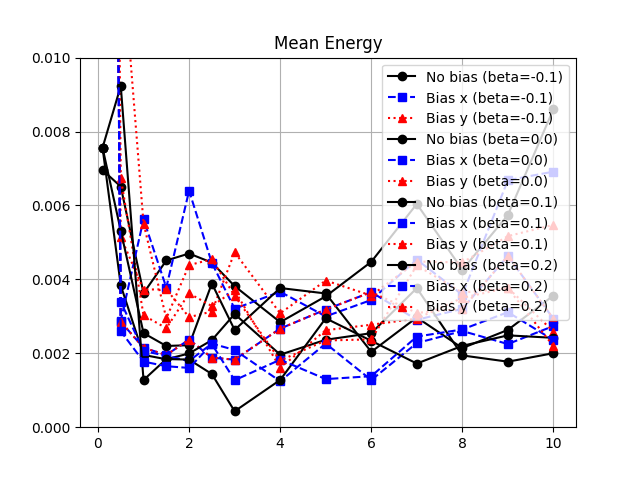
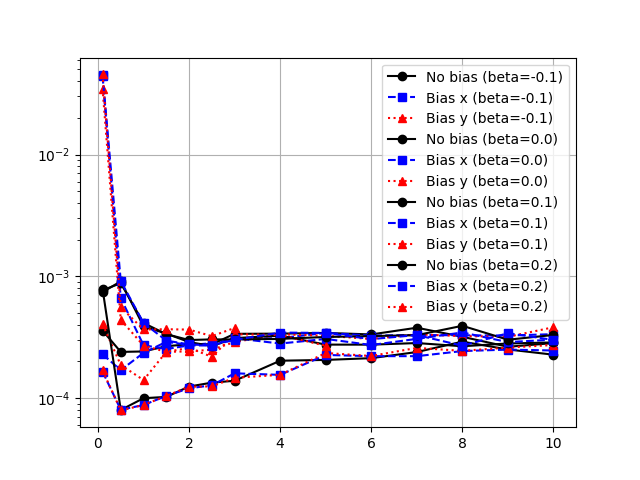
modified:   scripts/plot/plot_core.py 	modified:   scripts/plot/plot_energy.py 	new file:   scripts/plot/plot_energy_loss.py

diff --git a/scripts/plot/plot_core.py b/scripts/plot/plot_core.py
@@ -10,66 +10,159 @@ def compute_stats(vals):
         sum(vals) / len(vals)
     )
 
-def plot_energy(energy_nb, energy_wb, target_betas, aggregation, save_path):
+def plot_energy(
+    energy_nb,
+    energy_wb,
+    target_betas,
+    aggregation,
+    save_path,
+    loss_nb=None,
+    loss_wb=None,
+    mode="method",   # ★追加
+    model="no_bias",
+):
     plt.figure()
 
-    DATASETS = [
-        ("No bias", energy_nb, "no_reg",
-         dict(color="black", marker="o", linestyle="-")),
+    # =========================
+    # DATASETS定義
+    # =========================
+    if mode == "method":
+        DATASETS = [
+            ("No bias", energy_nb, loss_nb, "no_reg",
+             dict(color="black", marker="o")),
 
-        ("Bias x", energy_wb, "x",
-         dict(color="blue", marker="s", linestyle="--")),
+            ("Bias x", energy_wb, loss_wb, "x",
+             dict(color="blue", marker="s")),
 
-        ("Bias y", energy_wb, "y",
-         dict(color="red", marker="^", linestyle=":")),
-    ]
+            ("Bias y", energy_wb, loss_wb, "y",
+             dict(color="red", marker="^")),
+        ]
 
-    for beta in target_betas:
+    elif mode == "beta":
+        beta_color_map = {
+            -0.1: "C2",
+            0.0: "C0",
+            0.1: "C1",
+            0.2: "C3",
+        }
 
-        for label_prefix, data_dict, reg_type, style in DATASETS:
+        if model == "no_bias":
+            e_dict = energy_nb
+            l_dict = loss_nb
+            reg_type = "no_reg"
 
-            if beta not in data_dict:
+        elif model == "bias_x":
+            e_dict = energy_wb
+            l_dict = loss_wb
+            reg_type = "x"
+
+        elif model == "bias_y":
+            e_dict = energy_wb
+            l_dict = loss_wb
+            reg_type = "y"
+
+        else:
+            raise ValueError(f"Unknown model: {model}")
+        
+        # no_biasのみ使う（必要なら拡張可能）
+        DATASETS = []
+        for beta in target_betas:
+            DATASETS.append((
+                f"{model}, beta={beta}",
+                e_dict,
+                l_dict,
+                reg_type,
+                dict(color=beta_color_map[beta], marker="o"),
+                beta
+            ))
+
+    else:
+        raise ValueError(f"Unknown mode: {mode}")
+
+    # =========================
+    # ループ
+    # =========================
+    for item in DATASETS:
+
+        # modeで構造が違うので分岐
+        if mode == "method":
+            label_prefix, e_dict, l_dict, reg_type, style = item
+            beta_loop = target_betas
+
+        else:  # beta mode
+            label_prefix, e_dict, l_dict, reg_type, style, fixed_beta = item
+            beta_loop = [fixed_beta]
+
+        for beta in beta_loop:
+
+            if beta not in e_dict:
                 continue
 
-            xs, mean_vals, min_vals, max_vals = [], [], [], []
+            xs = []
+            mean_e, min_e, max_e = [], [], []
+            mean_l = []
 
-            for a in sorted(data_dict[beta].keys()):
-                if reg_type not in data_dict[beta][a]:
+            for a in sorted(e_dict[beta].keys()):
+                if reg_type not in e_dict[beta][a]:
                     continue
 
-                vals = data_dict[beta][a][reg_type]
+                e_vals = e_dict[beta][a][reg_type]
+                mn, mx, avg = compute_stats(e_vals)
 
                 xs.append(a)
-                mean_vals.append(sum(vals)/len(vals))
-                min_vals.append(min(vals))
-                max_vals.append(max(vals))
+                mean_e.append(avg)
+                min_e.append(mn)
+                max_e.append(mx)
+
+                if l_dict is not None:
+                    l_vals = l_dict[beta][a][reg_type]
+                    mean_l.append(sum(l_vals)/len(l_vals))
 
             if not xs:
                 continue
 
-            # --- band ---
+            color = style["color"]
+
+            # =====================
+            # energy
+            # =====================
             if aggregation == "band":
-                plt.fill_between(xs, min_vals, max_vals,
-                                 color=style["color"], alpha=0.15)
+                plt.fill_between(xs, min_e, max_e,
+                                 color=color, alpha=0.15)
 
-                plt.plot(xs, mean_vals,
-                         label=f"{label_prefix} (beta={beta})",
-                         **style)
+                plt.plot(xs, mean_e,
+                         linestyle="-",
+                         marker=style["marker"],
+                         color=color,
+                         label=f"{model}, beta={beta} energy")
 
-            # --- mean/min ---
             else:
                 ys = []
-                for a in sorted(data_dict[beta].keys()):
-                    if reg_type not in data_dict[beta][a]:
+                for a in sorted(e_dict[beta].keys()):
+                    if reg_type not in e_dict[beta][a]:
                         continue
-                    vals = data_dict[beta][a][reg_type]
+                    vals = e_dict[beta][a][reg_type]
                     ys.append(aggregate(vals, aggregation))
 
                 plt.plot(xs, ys,
-                         label=f"{label_prefix} (beta={beta})",
-                         **style)
+                         linestyle="-",
+                         marker=style["marker"],
+                         color=color,
+                         label=f"{model}, beta={beta} energy")
+
+            # =====================
+            # loss
+            # =====================
+            if l_dict is not None and mean_l:
+                plt.plot(xs, mean_l,
+                         linestyle="--",
+                         color=color,
+                         label=f"{model}, beta={beta} energy")
+
+    plt.xlabel("alphasc")
+    plt.ylabel("value")
     plt.yscale('log')
     plt.legend()
     plt.grid()
     plt.savefig(save_path)
-    plt.show()
+   

diff --git a/scripts/plot/plot_energy.py b/scripts/plot/plot_energy.py
@@ -8,6 +8,7 @@ def main():
     parser = argparse.ArgumentParser()
     parser.add_argument("--m", type=int, default=18)
     parser.add_argument("--mode", choices=["mean", "min", "band"], default="band")
+    parser.add_argument("--model", choices=["no_bias", "bias_x", "bias_y"], default="no_bias")
     args = parser.parse_args()
 
     file_map = {
@@ -36,8 +37,45 @@ def main():
         energy_wb,
         DEFAULT_BETAS,
         aggregation=aggregation,
-        save_path=save_path
-       )
+        save_path=save_path,
+#        loss_nb=loss_nb,
+#        loss_wb=loss_wb,
+        mode="method",
+    )
 
+    plot_energy(
+        energy_nb,
+        energy_wb,
+        DEFAULT_BETAS,
+        aggregation=aggregation,
+        save_path=SAVE_DIR / "bias_x.png",
+        loss_nb=loss_nb,
+        loss_wb=loss_wb,
+        mode="beta",
+        model='bias_x',
+    )
+    plot_energy(
+        energy_nb,
+        energy_wb,
+        DEFAULT_BETAS,
+        aggregation=aggregation,
+        save_path=SAVE_DIR / "bias_y.png",
+        loss_nb=loss_nb,
+        loss_wb=loss_wb,
+        mode="beta",
+        model='bias_y',
+    )
+    plot_energy(
+        energy_nb,
+        energy_wb,
+        DEFAULT_BETAS,
+        aggregation=aggregation,
+        save_path=SAVE_DIR / "no_bias.png",
+        loss_nb=loss_nb,
+        loss_wb=loss_wb,
+        mode="beta",
+        model='no_bias',
+    )
+    plt.show()
 if __name__ == "__main__":
     main()

diff --git a/scripts/plot/plot_energy_loss.py b/scripts/plot/plot_energy_loss.py
@@ -1,0 +1,42 @@
+import argparse
+from pathlib import Path
+
+from src.analysis.loader import load_data
+from scripts.plot.plot_core import plot_energy_loss_by_beta, DEFAULT_BETAS
+
+
+def main():
+    parser = argparse.ArgumentParser()
+    parser.add_argument("--m", type=int, default=18)
+    parser.add_argument("--model", default="power_opt")
+    args = parser.parse_args()
+
+    file_map = {
+        18: "...",
+        60: "...",
+        210: "...",
+        756: "...",
+    }
+
+    BASE_DIR = Path(__file__).resolve().parents[2]
+    file = file_map[args.m]
+
+    BASE_OUTPUT = BASE_DIR / "outputs" / args.model
+
+    DATA_DIR = BASE_OUTPUT / file
+
+    SAVE_DIR = BASE_OUTPUT / "figures"
+    SAVE_DIR.mkdir(parents=True, exist_ok=True)
+
+    energy_data, loss_data = load_data(DATA_DIR, use_bias=False)
+
+    plot_energy_loss_by_beta(
+        energy_data,
+        loss_data,
+        DEFAULT_BETAS,
+        SAVE_DIR / f"{args.model}_energy_loss.png"
+    )
+
+
+if __name__ == "__main__":
+    main()
